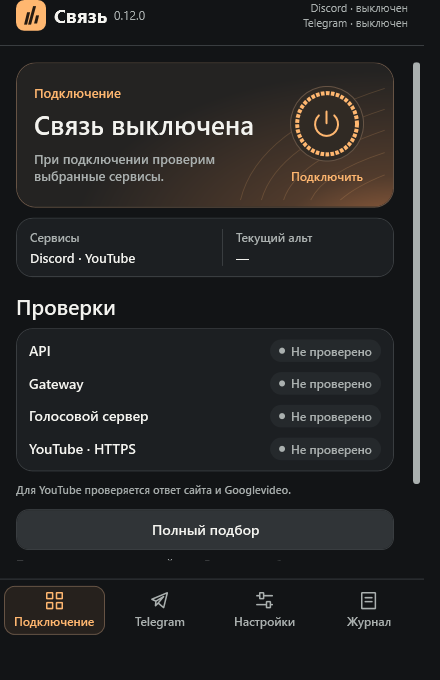
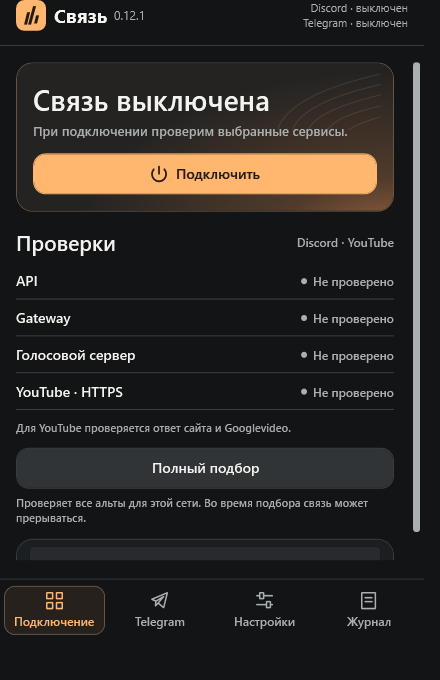
Show the released Windows interface on the download page

diff --git a/site/index.html b/site/index.html
@@ -15,7 +15,7 @@
 <body>
   <a class="skip" href="#main">К содержимому</a>
   <header class="header wrap">
-    <a class="brand" href="#" aria-label="Связь — начало страницы"><img src="icon.png" width="36" height="36" alt="">Связь<span class="version">0.12.0</span></a>
+    <a class="brand" href="#" aria-label="Связь — начало страницы"><img src="icon.png" width="36" height="36" alt="">Связь<span class="version">0.12.1</span></a>
     <nav aria-label="Основная навигация"><a href="#features">Возможности</a><a href="#start">Как начать</a><a class="github" href="https://github.com/QeeDy777/svyaz">GitHub <span aria-hidden="true">↗</span></a></nav>
   </header>
   <main id="main">
@@ -25,14 +25,14 @@
         <h1 id="hero-title">На связи.<br><span>Без лишнего.</span></h1>
         <p class="lead">Discord, YouTube, Telegram.<br>Исправить подключение — одним нажатием.</p>
         <p class="description">«Связь» перебирает стратегии zapret, проверяет ответ сервисов Discord и оставляет подходящую работать. Движок Telegram-прокси уже встроен в приложение.</p>
-        <a class="button" href="https://github.com/QeeDy777/svyaz/releases/download/v0.12.0/Svyaz-0.12.0-win-x64-setup-unsigned.exe"><svg width="20" height="20" viewBox="0 0 24 24" fill="none" stroke="currentColor" stroke-width="1.7" aria-hidden="true"><path d="M12 3v12m-5-5 5 5 5-5M4 16v5h16v-5"/></svg>Скачать для Windows</a>
-        <p class="download-note">Windows 10 / 11 · x64 · установщик EXE<br>Версия 0.12.0 · .NET уже внутри</p>
+        <a class="button" href="https://github.com/QeeDy777/svyaz/releases/download/v0.12.1/Svyaz-0.12.1-win-x64-setup-unsigned.exe"><svg width="20" height="20" viewBox="0 0 24 24" fill="none" stroke="currentColor" stroke-width="1.7" aria-hidden="true"><path d="M12 3v12m-5-5 5 5 5-5M4 16v5h16v-5"/></svg>Скачать для Windows</a>
+        <p class="download-note">Windows 10 / 11 · x64 · установщик EXE<br>Версия 0.12.1 · .NET уже внутри</p>
         <a class="quiet-link" href="#start">Три шага до подключения <span aria-hidden="true">↓</span></a>
       </div>
       <figure class="preview">
         <div class="orbit orbit-one" aria-hidden="true"></div><div class="orbit orbit-two" aria-hidden="true"></div>
         <img class="app-window" src="svyaz-window.png" width="440" height="680" alt="Главное окно «Связи» с кнопкой подключения, результатами проверок и нижними вкладками">
-        <figcaption>«Связь» для Windows · версия 0.12.0</figcaption>
+        <figcaption>«Связь» для Windows · версия 0.12.1</figcaption>
       </figure>
     </section>
     <div class="ribbon"><div class="wrap"><span>Подбор альтов</span><span>Обновления с GitHub</span><span>Запуск вместе с Windows</span><span>Game Filter</span></div></div>
@@ -67,7 +67,7 @@
         <details><summary>Что делать при ошибке запуска?</summary><p>Повтори установку: она сохранит настройки. При аварии окно ошибки показывает подробности и путь к startup-error.log. Описать проблему можно в <a href="https://github.com/QeeDy777/svyaz/issues">Issues на GitHub</a>; перед публикацией журнала проверь, что в нём нет личных данных.</p></details>
       </div>
     </section>
-    <section class="closing wrap"><div><p class="eyebrow">Связь 0.12.0</p><h2>Пора подключаться.</h2></div><a class="button" href="https://github.com/QeeDy777/svyaz/releases/latest">Открыть загрузки <span aria-hidden="true">↗</span></a></section>
+    <section class="closing wrap"><div><p class="eyebrow">Связь 0.12.1</p><h2>Пора подключаться.</h2></div><a class="button" href="https://github.com/QeeDy777/svyaz/releases/latest">Открыть загрузки <span aria-hidden="true">↗</span></a></section>
   </main>
   <footer class="footer wrap"><div class="brand"><img src="icon.png" width="28" height="28" alt="">Связь</div><p>Самостоятельная оболочка на базе <a href="https://github.com/Flowseal/zapret-discord-youtube">Flowseal zapret</a> и <a href="https://github.com/Flowseal/tg-ws-proxy">tg-ws-proxy</a>.<br>Не официальный продукт Discord или Flowseal.</p><a href="https://github.com/QeeDy777/svyaz">Исходный код ↗</a></footer>
 </body>
